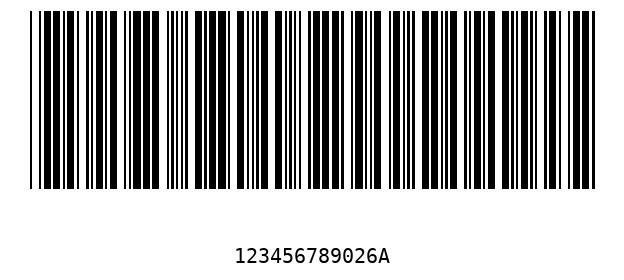
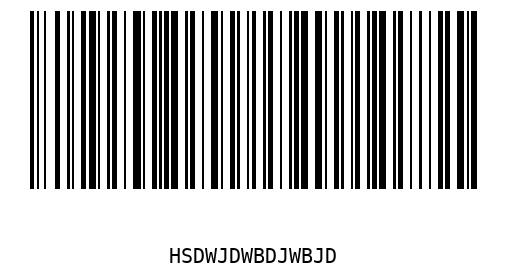
final

diff --git a/main.py b/main.py
@@ -1,11 +1,11 @@
-from barcode import Code39
+from barcode import Code128
 from barcode.writer import ImageWriter
 from PIL import Image
 import os
 
-number = '123456789026'
+number = 'HSDWJDWBDJWBJD'
 
-code = Code39(number, writer=ImageWriter())
+code = Code128(number, writer=ImageWriter())
 
 code.save('new')
 
